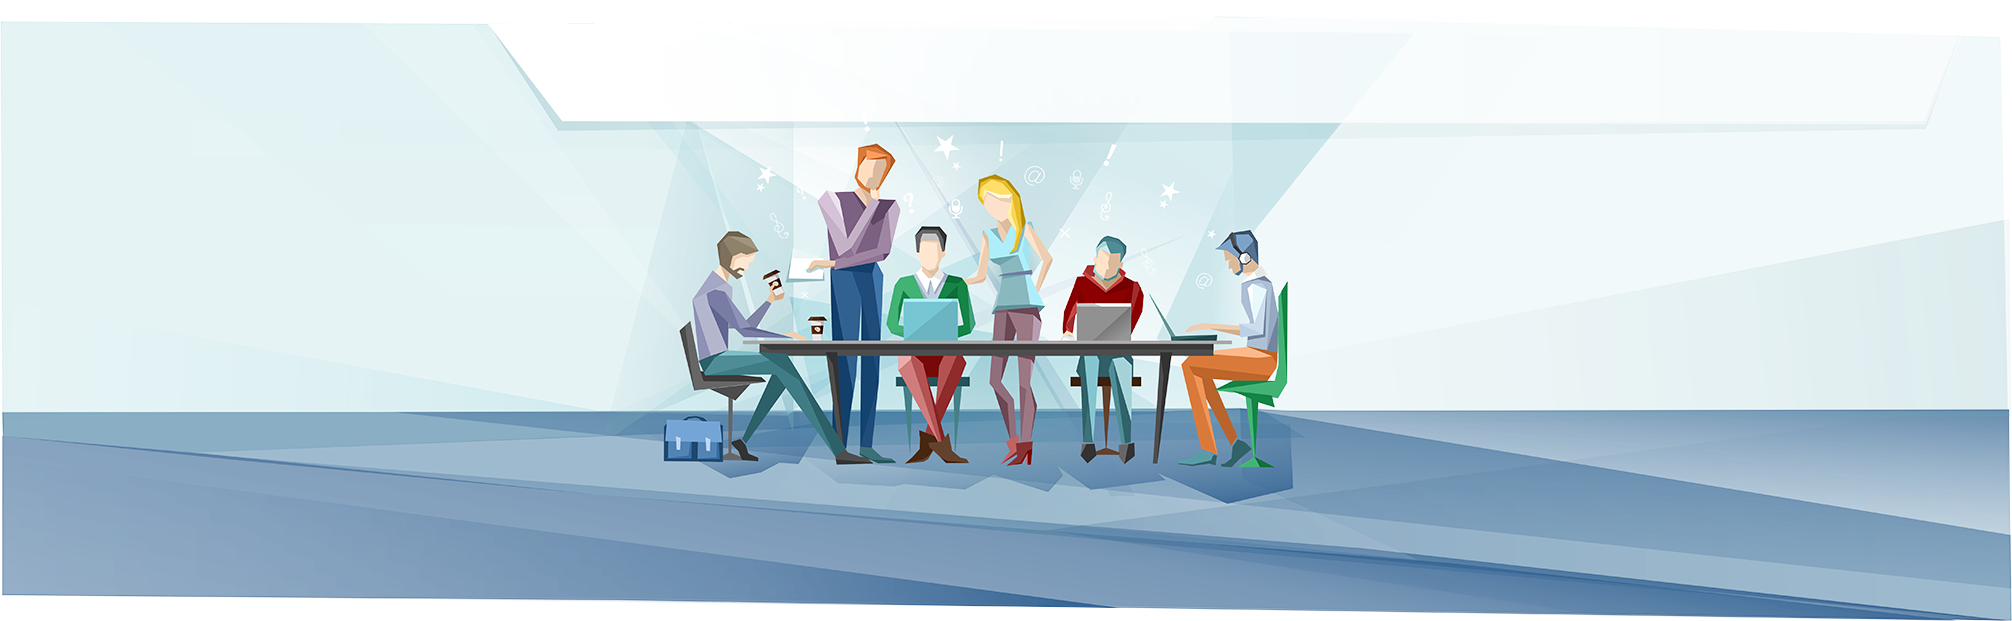
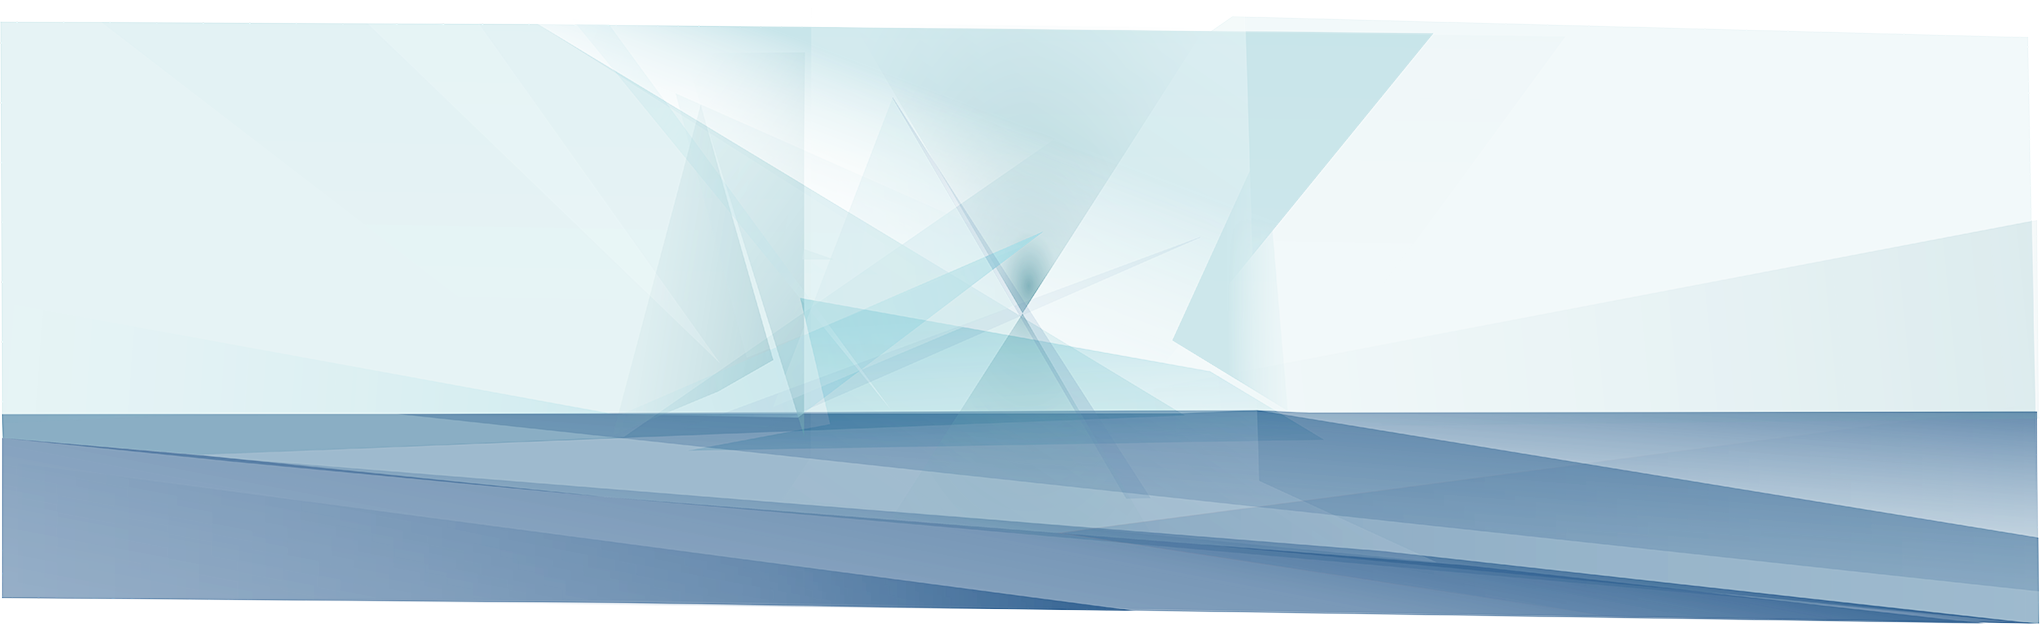
header-fix resize able

Changed region(s): [[0.2465, 0.0306, 0.7087, 0.8261]]

diff --git a/include/css/main.css b/include/css/main.css
@@ -18,12 +18,34 @@ div.wrapper {
 /********************************************************/
 /*header*/
 /********************************************************/
+header .header-main {
+  position: relative;
+}
 .header-bg {
   position: absolute;
+/*
   left: 50%;
   margin-left: -1006px;
+*/
   top: -25px;
   z-index: -999;
+  left: 0;
+  width: 100%;
+  height: 624px;
+}
+.abs-header {
+  position: absolute;
+  z-index: -5;
+  left: -50px;
+  top: -10px;
+  width: 1080px;
+  height: 145px;
+}
+.abs-header-cnt {
+  position: absolute;
+  z-index: -10;
+  top: 40px;
+  left: 120px;
 }
 .logo {
   margin-left: 105px;
@@ -67,10 +89,9 @@ div.wrapper {
 .header-content {
   position: relative;
   display: inline;
-
 }
 .nayword-block {
-  margin-top: 400px;
+  margin-top: 410px;
   margin-left: 310px;
   position: relative;
   z-index: 2;

diff --git a/index.html b/index.html
@@ -27,6 +27,7 @@
   <header>
    <img class="header-bg" src="/include/images/header-bg.png" alt="header background">
     <div class="header-main">
+    <img src="/include/images/header-header-bg.png" alt="header bg" class="abs-header">
       <div class="logo">
         <a href="#"><img src="/include/images/logo.png" alt="logo"></a>
       </div>
@@ -46,6 +47,7 @@
       </nav>
     </div>
     <div class="header-content">
+      <img src="/include/images/header-ppls.png" alt="" class="abs-header-cnt">
       <div class="fb">
         <a href="#">
           <img src="/include/images/fb.png" alt="facebook">
